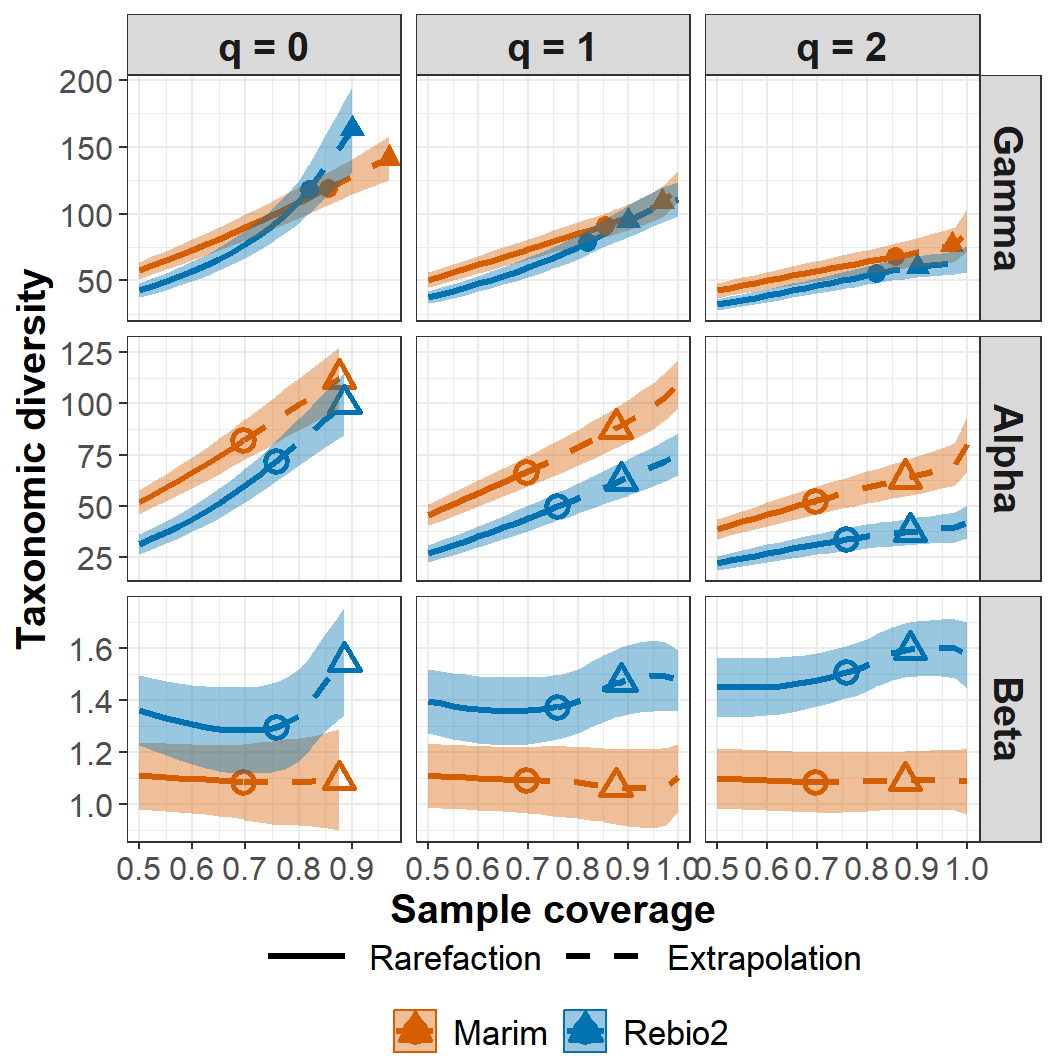
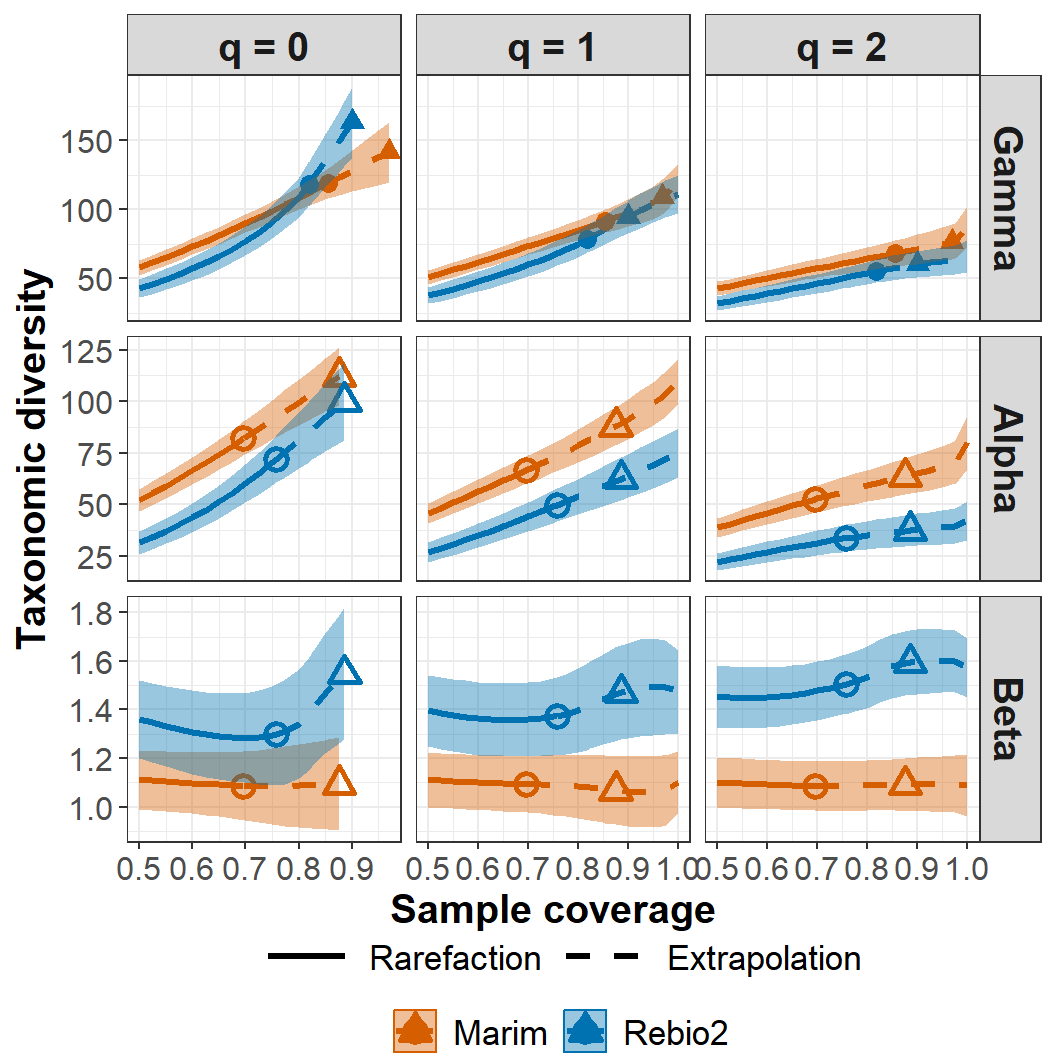
Update.

diff --git a/README.md b/README.md
@@ -3,7 +3,7 @@
 # iNEXT.beta3D (R package)
 
 <h5 align="right">
-Latest version: 2023-11-16
+Latest version: 2024-01-08
 </h5>
 <font color="394CAE">
 <h3 color="394CAE" style="font-weight: bold">
@@ -12,7 +12,7 @@ User’s Guide
 </h3>
 </font> <br>
 <h5>
-<b>Anne Chao, Kai-Hsiang Hu, Y.S. Kao and Z.C. Szu-tu</b> <br><br>
+<b>Anne Chao, Hu, K.-H., Y.S. Kao and Z.C. Szu-tu</b> <br><br>
 <i>Institute of Statistics, National Tsing Hua University, Hsin-Chu,
 Taiwan 30043</i>
 </h5>
@@ -677,16 +677,16 @@ we show the output for taxonomic beta diversity between the Edge and
 Interior habitats in the Marim fragment.
 
        Dataset Order.q    SC    Size  Beta                Method  s.e.   LCL   UCL
-    1    Marim       0 0.500 148.277 1.111           Rarefaction 0.062 0.990 1.232
-    2    Marim       0 0.525 162.445 1.108           Rarefaction 0.062 0.987 1.229
-    3    Marim       0 0.550 177.829 1.105           Rarefaction 0.062 0.983 1.227
-    4    Marim       0 0.575 194.579 1.102           Rarefaction 0.063 0.979 1.224
-    5    Marim       0 0.600 212.873 1.099           Rarefaction 0.063 0.975 1.223
-    6    Marim       0 0.625 232.920 1.095           Rarefaction 0.064 0.969 1.222
-    7    Marim       0 0.650 254.965 1.092           Rarefaction 0.066 0.963 1.222
-    8    Marim       0 0.675 279.291 1.089           Rarefaction 0.069 0.955 1.223
-    9    Marim       0 0.696 302.000 1.087 Observed_SC(n, alpha) 0.071 0.947 1.226
-    10   Marim       0 0.700 306.186 1.086         Extrapolation 0.072 0.946 1.227
+    1    Marim       0 0.500 148.277 1.111           Rarefaction 0.067 0.980 1.242
+    2    Marim       0 0.525 162.445 1.108           Rarefaction 0.067 0.976 1.240
+    3    Marim       0 0.550 177.829 1.105           Rarefaction 0.068 0.973 1.237
+    4    Marim       0 0.575 194.579 1.102           Rarefaction 0.068 0.968 1.235
+    5    Marim       0 0.600 212.873 1.099           Rarefaction 0.069 0.964 1.233
+    6    Marim       0 0.625 232.920 1.095           Rarefaction 0.070 0.959 1.232
+    7    Marim       0 0.650 254.965 1.092           Rarefaction 0.071 0.953 1.231
+    8    Marim       0 0.675 279.291 1.089           Rarefaction 0.073 0.946 1.232
+    9    Marim       0 0.696 302.000 1.087 Observed_SC(n, alpha) 0.075 0.940 1.233
+    10   Marim       0 0.700 306.186 1.086         Extrapolation 0.075 0.939 1.234
 
 We can also use incidence raw data (`Second_growth_forests`) to compute
 coverage-based standardized gamma, alpha, beta diversity, and four
